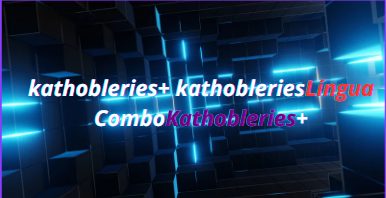
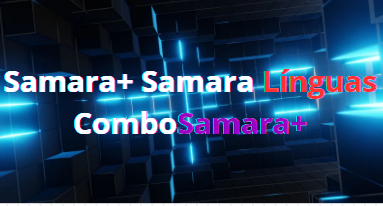
Add files via upload

diff --git a/index.html b/index.html
@@ -2,7 +2,7 @@
 <html>
 
 <head>
-    <title>kathobleries Plus</title>
+    <title>Samara Plus</title>
     <meta charset="UTF-8">
     <meta name="viewport" content="width=device-width, initial-scale=1">
     <link rel="stylesheet" href="styles.css">
@@ -14,11 +14,11 @@
 <body>
     <section class="principal container">
         <div class="container__caixa">
-            <h1 class="container__titulo">Com o Combo+, você pode aproveitar a kathobleries+ e o kathobleries Línguas por um preço
+            <h1 class="container__titulo">Com o ComboSamara+, você pode aproveitar a Samara+ e o Samara Línguas por um preço
                 único.</h1>
-            <img src="img/Combo.png" alt="O ComboKathobleries+ é a junção do Kathobleries+ e o Kathobleries língua" class="container__imagem">
-            <a href="www.alura.com.br" class="container__botao">Assine por 10x de R$170000,99 com juros*</a>
-            <a href="www.alura.com.br" class="container__botao botao_secundario">Assinar somente o Kathobleries+</a>
+            <img src="img/Combo.png" alt="O ComboSamara+ é a junção do Samara+ e o Samara língua" class="container__imagem">
+            <a href="www.alura.com.br" class="container__botao">Assine por 10x de R$170,99 com juros*</a>
+            <a href="www.alura.com.br" class="container__botao botao_secundario">Assinar somente o Samara+</a>
             <p class="container__aviso">*O preço pode variar caso a assinatura seja feita em outros planos.</p>
         </div>
     </section>
@@ -35,16 +35,16 @@
     <section class="container secundario">
         <div class="container__descricao">
             <p class="descricao__texto">
-                Só o ComboKathobleries+ oferece kathobleries+ e kathobleries Língua juntos para você ter acesso a cursos de diversas áreas da
+                Só o ComboSamara+ oferece Samara+ e Samara Língua juntos para você ter acesso a cursos de diversas áreas da
                 tecnologia e aprender inglês ou espanhol, onde e como quiser.
             </p>
-            <a href="www.alura.com.br" class="container__botao secundario__botao" container>Assine o Combokathobleries+</a>
+            <a href="www.alura.com.br" class="container__botao secundario__botao" container>Assine o ComboSamara+</a>
         </div>
-        <img src="img/Telas.png" alt="Tela do kathobleries+ e kathobleries língua" class="secundario__imagem">
+        <img src="img/Telas.png" alt="Tela do Samara+ e Samara língua" class="secundario__imagem">
     </section>
 
     <section class="container secundario">
-        <img src="img/Notebook.png" alt="Notebook com a página do curso HTML5 e CSS3 da kathobleries aberta"
+        <img src="img/Notebook.png" alt="Notebook com a página do curso HTML5 e CSS3 da Samara aberta"
             class="secundario__imagem">
         <div class="container__descricao">
             <h2 class="descricao__titulo">Baixe seus cursos</h2>
@@ -57,7 +57,7 @@
         <h2 class="dispositivos__titulo">Disponível nos seus dispositivos favoritos</h2>
         <ul class="dispositivos__lista">
             <li>
-                <img src="img/tv.png" alt="Ícone de televisão">
+                <img src="img/tv.jpeg" alt="Ícone de televisão">
                 <h3 class="lista__item">TV</h3>
             </li>
             <li>
@@ -96,10 +96,10 @@
                 <a href="#">Ajuda</a>
             </li>
         </ul>
-        <p class="rodape__texto">® 2075 kathobleries, kathobleries+ e kathobleries Língua. Todos os direitos reservados. Serviço de
+        <p class="rodape__texto">® 2075 Samara, Samara+ e Samara Língua. Todos os direitos reservados. Serviço de
             assinatura paga. Conteúdo sujeito a disponibilidade.</p>
-        <p class="rodape__texto">kathobleries+ é um serviço pago, baseado em assinatura e sujeito a termos e condições. O
-            serviço kathobleries+ é comercializado por Aovs Sistemas de Informática S.A., Rua Vergueiro, 3185 - Liberdade, São
+        <p class="rodape__texto">Samara+ é um serviço pago, baseado em assinatura e sujeito a termos e condições. O
+            serviço Samaras+ é comercializado por Aovs Sistemas de Informática S.A., Rua Vergueiro, 3185 - Liberdade, São
             Paulo - SP, 04101-300, Brasil e CNPJ 05.555.382/0001-33</p>
     </footer>
 

diff --git a/styles.css b/styles.css
@@ -1,5 +1,5 @@
 :root {
-    --branco-principal: #bb01ff;
+    --branco-principal: #9616ff;
     --cinza-secundario: #C0C0C0;
     --botao-azul: #939393;
     --cor-de-fundo: #00030C;
